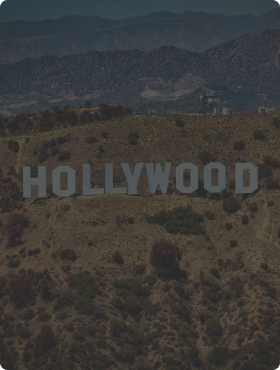
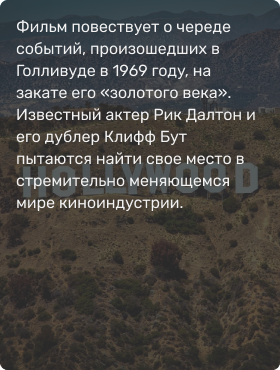
first commit

diff --git a/src/css/main.css b/src/css/main.css
@@ -1,1 +1,1 @@
-*{padding:0px;margin:0px;border:none}*,*::before,*::after{box-sizing:border-box}a,a:link,a:visited{text-decoration:none}a:hover{text-decoration:none}aside,nav,footer,header,section,main{display:block}h1,h2,h3,h4,h5,h6,p{font-size:inherit;font-weight:inherit}ul,ul li{list-style:none}img{vertical-align:top}img,svg{max-width:100%;height:auto}address{font-style:normal}input,textarea,button,select{font-family:inherit;font-size:inherit;color:inherit;background-color:rgba(0,0,0,0)}input::-ms-clear{display:none}button,input[type=submit]{display:inline-block;box-shadow:none;background-color:rgba(0,0,0,0);background:none;cursor:pointer}input:focus,input:active,button:focus,button:active{outline:none}button::-moz-focus-inner{padding:0;border:0}label{cursor:pointer}legend{display:block}body{color:#333;font-family:"Rubik",sans-serif;font-optical-sizing:auto;font-weight:400;font-style:normal;font-size:16px}#root{width:100%;max-width:1440px;height:100%;margin:0 auto}.content{margin:0 auto;max-width:1190px;width:100%;height:100%;padding:0 10px}a{color:#333}a:hover{color:#e5261e}.header{margin:0 auto;width:100%;height:40px;margin-top:32px}.header__row{display:flex;justify-content:space-between;align-items:center}.header__search__wrapper{display:flex;-moz-column-gap:32px;column-gap:32px;height:25px}.header__search__placeholder input{width:320px;height:25px}.header__search__button{color:#e5261e;font-weight:600;text-align:center}.header__search__button:hover{cursor:pointer}.header__button__login{width:113px;height:38px;background-color:#e5261e;color:#fff;border-radius:4px}.logo{background-image:url(../images/logo.svg);width:182px;height:36px}.input__line{width:100%;height:1px;background-color:#333}.tabs{display:flex;margin:0 auto;margin-top:44px;justify-content:space-between;align-items:center;width:311px;height:42px;font-size:28px;font-weight:500}.tabs__line{width:100%;height:3px;margin-top:9px;background-color:#e5261e}.new{margin-top:32px}.new__wrapper{display:flex;-moz-column-gap:20px;column-gap:20px}.new__title{font-size:24px;font-weight:500;margin-bottom:16px}.new__card{width:280px;height:434px}.new__card__img__text{display:block;padding:16px;color:#fff;opacity:0;position:absolute;width:280px;height:370px;transition:.1s linear}.new__card__img__text:hover{opacity:1}.new__card__img-1{background-image:url(../images/movies/new/img1.jpg);width:280px;height:370px;cursor:pointer}.new__card__img-2{background-image:url(../images/movies/new/img2.jpg);width:280px;height:370px;cursor:pointer}.new__card__img-3{background-image:url(../images/movies/new/img3.jpg);width:280px;height:370px;transition:.1s linear;border-radius:8px;cursor:pointer}.new__card__img-3:hover{background-image:url(../images/movies/new/img3HoverBg.png)}.new__card__img-4{background-image:url(../images/movies/new/img4.jpg);width:280px;height:370px;cursor:pointer}.new__card__text{margin-top:16px;font-size:20px}.genres{margin-top:16px;display:flex;justify-content:space-between}.genres__title{font-size:24px;font-weight:500;margin-top:32px}.genres__wrapper-1{position:relative;width:280px;height:208px;background-image:url(../images/movies/genres/img1.png)}.genres__wrapper-2{position:relative;width:280px;height:208px;background-image:url(../images/movies/genres/img2.png)}.genres__wrapper-3{position:relative;width:280px;height:208px;background-image:url(../images/movies/genres/img3.png)}.genres__wrapper-4{position:relative;width:280px;height:208px;background-image:url(../images/movies/genres/img4.png)}.genres__smile-1{background-image:url(../images/movies/genres/smile.png)}.genres__smile-2{background-image:url(../images/movies/genres/smile2.png)}.genres__smile-3{background-image:url(../images/movies/genres/smile3.png)}.genres__smile-4{background-image:url(../images/movies/genres/smile4.png)}.genres__category{position:absolute;bottom:12px;left:50%;transform:translateX(-50%);justify-content:center;font-size:20px;color:#fff}.smile{display:flex;top:50%;position:relative;margin:auto;transform:translateY(-50%);width:48px;height:48px}.tv{width:100%;max-width:1180px;height:696px;margin-top:27px}.tv__channels{width:100%;height:162px;background-color:#f2f2f2;border-radius:8px;display:flex;margin-top:16px}.tv__channels__timetable__channel{font-size:20px;font-weight:500;margin-top:21px}.tv__channels__timetable__wrapper-1{line-height:30px;width:100%;display:flex;margin-top:16px}.tv__channels__timetable__time__accent{color:#e5261e}.tv__channels__timetable__title{padding-left:16px}.tv__channels__timetable__title__accent{color:#e5261e}.tv__channels__logo{width:114px;height:65px;margin:auto;position:relative;top:50%;transform:translateY(-50%)}.tv__channels__logo-1{background-image:url(../images/tv/1st.svg)}.tv__channels__logo-2{background-image:url(../images/tv/2x2.svg)}.tv__channels__logo-3{background-image:url(../images/tv/rbk.svg)}.tv__channels__logo-4{background-image:url(../images/tv/amedia.svg)}.tv__channels__logo__wrapper{width:100%;max-width:400px;height:162px;cursor:pointer}.footer{background-color:#f2f2f2;max-width:1440px;width:100%;height:120px;margin-top:72px}.footer__content{margin:0 auto;max-width:1180px;width:100%;height:100%;display:flex}.footer__logo-htc{background-image:url(../images/htc-cs-logo.svg);width:32px;height:64px;margin-top:28px}.footer__contact{width:100%;max-width:940px;margin-left:40px;margin-top:22px}.footer__phone{display:flex;margin-top:6px;-moz-column-gap:5px;column-gap:5px}.footer__phone-1:hover{color:#333}.footer__phone-2:hover{color:#333}.footer__phone:hover{color:#333}.footer__web-site{margin-top:10px;color:#1f4766;font-weight:500}.footer__web-site:hover{color:#1f4766}.modal-overlay{position:fixed;top:0;left:0;right:0;bottom:0;background:rgba(0,0,0,.5);display:flex;justify-content:center;align-items:center}.modal-content{background:#fff;padding:20px;border-radius:8px;width:300px}.close-button{background:rgba(0,0,0,0);border:none;font-size:20px;cursor:pointer}/*# sourceMappingURL=main.css.map */
+*{padding:0px;margin:0px;border:none}*,*::before,*::after{box-sizing:border-box}a,a:link,a:visited{text-decoration:none}a:hover{text-decoration:none}aside,nav,footer,header,section,main{display:block}h1,h2,h3,h4,h5,h6,p{font-size:inherit;font-weight:inherit}ul,ul li{list-style:none}img{vertical-align:top}img,svg{max-width:100%;height:auto}address{font-style:normal}input,textarea,button,select{font-family:inherit;font-size:inherit;color:inherit;background-color:rgba(0,0,0,0)}input::-ms-clear{display:none}button,input[type=submit]{display:inline-block;box-shadow:none;background-color:rgba(0,0,0,0);background:none;cursor:pointer}input:focus,input:active,button:focus,button:active{outline:none}button::-moz-focus-inner{padding:0;border:0}label{cursor:pointer}legend{display:block}body{color:#333;font-family:"Rubik",sans-serif;font-optical-sizing:auto;font-weight:400;font-style:normal;font-size:16px}#root{width:100%;max-width:1440px;height:100%;margin:0 auto}.content{margin:0 auto;max-width:1200px;width:100%;height:100%;padding:0 10px}a{color:#333}a:hover{color:#e5261e}.header{margin:0 auto;width:100%;height:40px;margin-top:32px}.header__row{display:flex;justify-content:space-between;align-items:center}.header__search__wrapper{display:flex;-moz-column-gap:32px;column-gap:32px;height:25px}.header__search__placeholder input{width:320px;height:25px}.header__search__button{color:#e5261e;font-weight:600;text-align:center}.header__search__button:hover{cursor:pointer}.header__button__login{width:113px;height:38px;background-color:#e5261e;color:#fff;border-radius:4px}.logo{background-image:url(../images/logo.svg);width:182px;height:36px}.input__line{width:100%;height:1px;background-color:#333}.tabs{display:flex;margin:0 auto;margin-top:44px;justify-content:space-between;align-items:center;width:311px;height:42px;font-size:28px;font-weight:500}.tabs__line{width:100%;height:3px;margin-top:9px;background-color:#e5261e}.new{margin-top:32px}.new__wrapper{display:flex;-moz-column-gap:20px;column-gap:20px}.new__title{font-size:24px;font-weight:500;margin-bottom:16px}.new__card{width:280px;height:434px}.new__card__img-1{background-image:url(../images/movies/new/img1.jpg);width:280px;height:370px;cursor:pointer}.new__card__img-2{background-image:url(../images/movies/new/img2.jpg);width:280px;height:370px;cursor:pointer}.new__card__img-3{background-image:url(../images/movies/new/img3.jpg);width:280px;height:370px;transition:.1s linear;border-radius:8px;cursor:pointer}.new__card__img-3:hover{background-image:url(../images/movies/new/img3HoverBg.png)}.new__card__img-4{background-image:url(../images/movies/new/img4.jpg);width:280px;height:370px;cursor:pointer}.new__card__text{margin-top:16px;font-size:20px}.genres{margin-top:16px;display:flex;justify-content:space-between}.genres__title{font-size:24px;font-weight:500;margin-top:32px}.genres__wrapper-1{width:280px;height:208px;background-image:url(../images/movies/genres/img1.png)}.genres__wrapper-2{width:280px;height:208px;background-image:url(../images/movies/genres/img2.png)}.genres__wrapper-3{width:280px;height:208px;background-image:url(../images/movies/genres/img3.png)}.genres__wrapper-4{width:280px;height:208px;background-image:url(../images/movies/genres/img4.png)}.genres__smile-1{background-image:url(../images/movies/genres/smile.png)}.genres__smile-2{background-image:url(../images/movies/genres/smile2.png)}.genres__smile-3{background-image:url(../images/movies/genres/smile3.png)}.genres__smile-4{background-image:url(../images/movies/genres/smile4.png)}.genres__category{position:relative;top:56px;display:flex;justify-content:center;font-size:20px;color:#fff}.smile{display:flex;top:50%;position:relative;margin:auto;transform:translateY(-50%);width:48px;height:48px}.tv{width:100%;max-width:1180px;height:696px;margin-top:27px}.tv__channels{width:100%;height:162px;background-color:#f2f2f2;border-radius:8px;display:flex;margin-top:16px}.tv__channels__timetable__channel{font-size:20px;font-weight:500;margin-top:21px}.tv__channels__timetable__wrapper-1{line-height:30px;width:100%;display:flex;margin-top:16px}.tv__channels__timetable__time__accent{color:#e5261e}.tv__channels__timetable__title{padding-left:16px}.tv__channels__timetable__title__accent{color:#e5261e}.tv__channels__logo{width:114px;height:65px;margin:auto;position:relative;top:50%;transform:translateY(-50%)}.tv__channels__logo-1{background-image:url(../images/tv/1st.svg)}.tv__channels__logo-2{background-image:url(../images/tv/2x2.svg)}.tv__channels__logo-3{background-image:url(../images/tv/rbk.svg)}.tv__channels__logo-4{background-image:url(../images/tv/amedia.svg)}.tv__channels__logo__wrapper{width:100%;max-width:400px;height:162px;cursor:pointer}.footer{background-color:#f2f2f2;max-width:1440px;width:100%;height:120px;margin-top:72px}.footer__content{margin:0 auto;max-width:1180px;width:100%;height:100%;display:flex}.footer__logo-htc{background-image:url(../images/htc-cs-logo.svg);width:32px;height:64px;margin-top:28px}.footer__contact{width:100%;max-width:940px;margin-left:40px;margin-top:22px}.footer__phone{display:flex;margin-top:6px;-moz-column-gap:5px;column-gap:5px}.footer__phone-1:hover{color:#333}.footer__phone-2:hover{color:#333}.footer__phone:hover{color:#333}.footer__web-site{margin-top:10px;color:#1f4766;font-weight:500}.footer__web-site:hover{color:#1f4766}.modal{width:100vw;height:100vh;background-color:rgba(0,0,0,.4);position:fixed;display:flex;align-items:center;justify-content:center;top:0;left:0;opacity:0;pointer-events:none;transition:.2s all}.modal__content{width:100%;max-width:304px;height:394px;border-radius:8px;background-color:#fff;z-index:999}.modal__active{width:100vw;height:100vh;background-color:rgba(0,0,0,.4);position:fixed;display:flex;align-items:center;justify-content:center;top:0;left:0;opacity:1;pointer-events:all;transition:.2s all}.form__title{font-size:28px;font-weight:600;text-align:center;margin-top:36px}.form__button__wrapper{display:flex;justify-content:center;margin-top:112px}.form__checkbox{position:relative;margin-left:36px;margin-top:23px;width:16px;height:16px}.form__checkbox__label{vertical-align:2px;padding-left:8px}.input{max-width:232px;width:100%;height:25px;margin:auto;display:flex;margin-top:24px;border-bottom:1px solid}.input::-moz-placeholder{color:#828282}.input::placeholder{color:#828282}/*# sourceMappingURL=main.css.map */

diff --git a/src/scss/blocks/_movies.scss b/src/scss/blocks/_movies.scss
@@ -15,17 +15,17 @@
     height: 434px;
     &__img {
       &__text {
-        display: block;
-        padding: 16px;
-        color: $color__white;
-        opacity: 0;
-        position: absolute;
-        width: 280px;
-        height: 370px;
-        transition: 0.1s linear;
-        &:hover {
-          opacity: 1;
-        }
+        // opacity: 0;
+        // padding: 16px;
+        // color: $color__white;
+        // cursor: inherit;
+        // width: 280px;
+        // height: 370px;
+        // transition: 0.1s linear;
+
+        // &:hover {
+        //   opacity: 1;
+        // }
       }
 
       &-1 {
@@ -49,7 +49,7 @@
         cursor: pointer;
 
         &:hover {
-          background-image:url(../images/movies/new/img3HoverBg.png) ;
+          background-image: url(../images/movies/new/img3HoverBg.png);
         }
       }
       &-4 {
@@ -76,25 +76,21 @@
   }
   &__wrapper {
     &-1 {
-      position: relative;
       width: 280px;
       height: 208px;
       background-image: url(../images/movies/genres/img1.png);
     }
     &-2 {
-      position: relative;
       width: 280px;
       height: 208px;
       background-image: url(../images/movies/genres/img2.png);
     }
     &-3 {
-      position: relative;
       width: 280px;
       height: 208px;
       background-image: url(../images/movies/genres/img3.png);
     }
     &-4 {
-      position: relative;
       width: 280px;
       height: 208px;
       background-image: url(../images/movies/genres/img4.png);
@@ -115,10 +111,9 @@
     }
   }
   &__category {
-    position: absolute;
-    bottom: 12px;
-    left: 50%;
-    transform: translateX(-50%);
+    position: relative;
+    top: 56px;
+    display: flex;
     justify-content: center;
     font-size: 20px;
     color: $color__white;

diff --git a/src/scss/blocks/_modal.scss b/src/scss/blocks/_modal.scss
@@ -1,25 +1,73 @@
-.modal-overlay {
+.modal {
+  width: 100vw;
+  height: 100vh;
+  background-color: rgba(0, 0, 0, 0.4);
   position: fixed;
+  display: flex;
+  align-items: center;
+  justify-content: center;
   top: 0;
   left: 0;
-  right: 0;
-  bottom: 0;
-  background: rgba(0, 0, 0, 0.5);
+  opacity: 0;
+  pointer-events: none;
+  transition: 0.2s all;
+  &__content {
+    width: 100%;
+    max-width: 304px;
+    height: 394px;
+    border-radius: 8px;
+    background-color: $color__white;
+    z-index: 999;
+  }
+  &__active {
+    width: 100vw;
+    height: 100vh;
+    background-color: rgba(0, 0, 0, 0.4);
+    position: fixed;
+    display: flex;
+    align-items: center;
+    justify-content: center;
+    top: 0;
+    left: 0;
+    opacity: 1;
+    pointer-events: all;
+    transition: 0.2s all;
+  }
+}
+.form {
+  &__title {
+    font-size: 28px;
+    font-weight: 600;
+    text-align: center;
+    margin-top: 36px;
+  }
+  &__button__wrapper {
+    display: flex;
+    justify-content: center;
+    margin-top: 112px; //153-23-16-2
+  }
+  &__checkbox {
+    position: relative;
+    margin-left: 36px;
+    margin-top: 23px;
+    width: 16px;
+    height: 16px;
+
+    &__label {
+      vertical-align: 2px;
+      padding-left: 8px;
+    }
+  }
+}
+.input {
+  max-width: 232px;
+  width: 100%;
+  height: 25px;
+  margin: auto;
   display: flex;
-  justify-content: center;
-  align-items: center;
-}
-
-.modal-content {
-  background: white;
-  padding: 20px;
-  border-radius: 8px;
-  width: 300px;
-}
-
-.close-button {
-  background: transparent;
-  border: none;
-  font-size: 20px;
-  cursor: pointer;
+  margin-top: 24px;
+  border-bottom: 1px solid;
+  &::placeholder {
+    color: $color__form__placeholder;
+  }
 }

diff --git a/src/Modal.jsx b/src/Modal.jsx
@@ -1,16 +1,46 @@
 import "./css/main.css";
 import React from "react";
 
-const Modal = ({ isOpen, onClose, children }) => {
-  if (!isOpen) return null;
+const Modal = ({ active, setActive }) => {
   return (
     <>
-      <div className="modal-overlay">
-        <div className="modal-content">
-          <button className="close-button" onClick={onClose}>
-            &times;
-          </button>
-          {children}
+      <div
+        className={active ? "modal__active" : "modal"}
+        onClick={() => setActive(false)}
+      >
+        <div className="modal__content" onClick={(e) => e.stopPropagation()}>
+          <form action="">
+            <div className="form__title">Вход</div>
+            <div className="input__wrapper">
+              <input
+                className="input"
+                type="text"
+                placeholder="Логин"
+                name="login"
+                id="login"
+              />
+              <input
+                className="input"
+                type="text"
+                placeholder="Пароль"
+                name="password"
+                id="password"
+              />
+            </div>
+            <input
+              type="checkbox"
+              className="form__checkbox"
+              id="form__checkbox"
+            />
+            <label htmlFor="form__checkbox" className="form__checkbox__label">
+              Запомнить
+            </label>
+            <div className="form__button__wrapper">
+              <button type="submit" className="header__button__login">
+                Войти
+              </button>
+            </div>
+          </form>
         </div>
       </div>
     </>

diff --git a/src/Header.jsx b/src/Header.jsx
@@ -4,8 +4,10 @@ import Movies from "./Movies";
 import Tv from "./Tv";
 import Tabs from "./Tabs";
 import Modal from "./Modal";
+import { useState } from "react";
 
 function Header() {
+  const [modalActive, setModalActive] = useState(false);
   return (
     <>
       <header className="header">
@@ -20,12 +22,18 @@ function Header() {
             </div>
             <div className="header__search__button">Найти</div>
           </div>
-          <div className="header__button__login">
-            <button className="header__button__login">Войти</button>
+          <div className="header__button__login" onClick={() => setModalActive(true)}>
+            <button
+              className="header__button__login"
+              onClick={() => setModalActive(true)}
+            >
+              Войти
+            </button>
           </div>
         </div>
       </header>
       <Tabs />
+      <Modal active={modalActive} setActive={setModalActive} />
 
       <Routes>
         <Route path="/" element={<Movies />} />

diff --git a/src/Movies.jsx b/src/Movies.jsx
@@ -22,12 +22,12 @@ const Movies = () => {
             </div>
             <div className="new__card">
               <div className="new__card__img-3">
-                <p className="new__card__img__text">
+                {/* <p className="new__card__img__text">
                   Фильм повествует о череде событий, произошедших в Голливуде в
                   1969 году, на закате его «золотого века». Известный актер Рик
                   Далтон и его дублер Клифф Бут пытаются найти свое место в
                   стремительно меняющемся мире киноиндустрии.
-                </p>
+                </p> */}
               </div>
               <div className="new__card__text">
                 <h1>Однажды... в Голливуде</h1>

diff --git a/src/scss/base/_vars.scss b/src/scss/base/_vars.scss
@@ -2,7 +2,8 @@ $font: "Rubik", sans-serif;
 
 //colors
 $color__main: #333333;
-$color__accent: #E5261E;
+$color__accent: #e5261e;
 $color__white: #fff;
-$color__footer_bg: #F2F2F2;
-$color__footer__accent: #1F4766;
+$color__footer_bg: #f2f2f2;
+$color__footer__accent: #1f4766;
+$color__form__placeholder: #828282;

diff --git a/src/scss/base/_base.scss b/src/scss/base/_base.scss
@@ -14,7 +14,7 @@ body {
 }
 .content {
   margin: 0 auto;
-  max-width: 1190px;
+  max-width: 1200px;
   width: 100%;
   height: 100%;
   padding: 0 10px;
